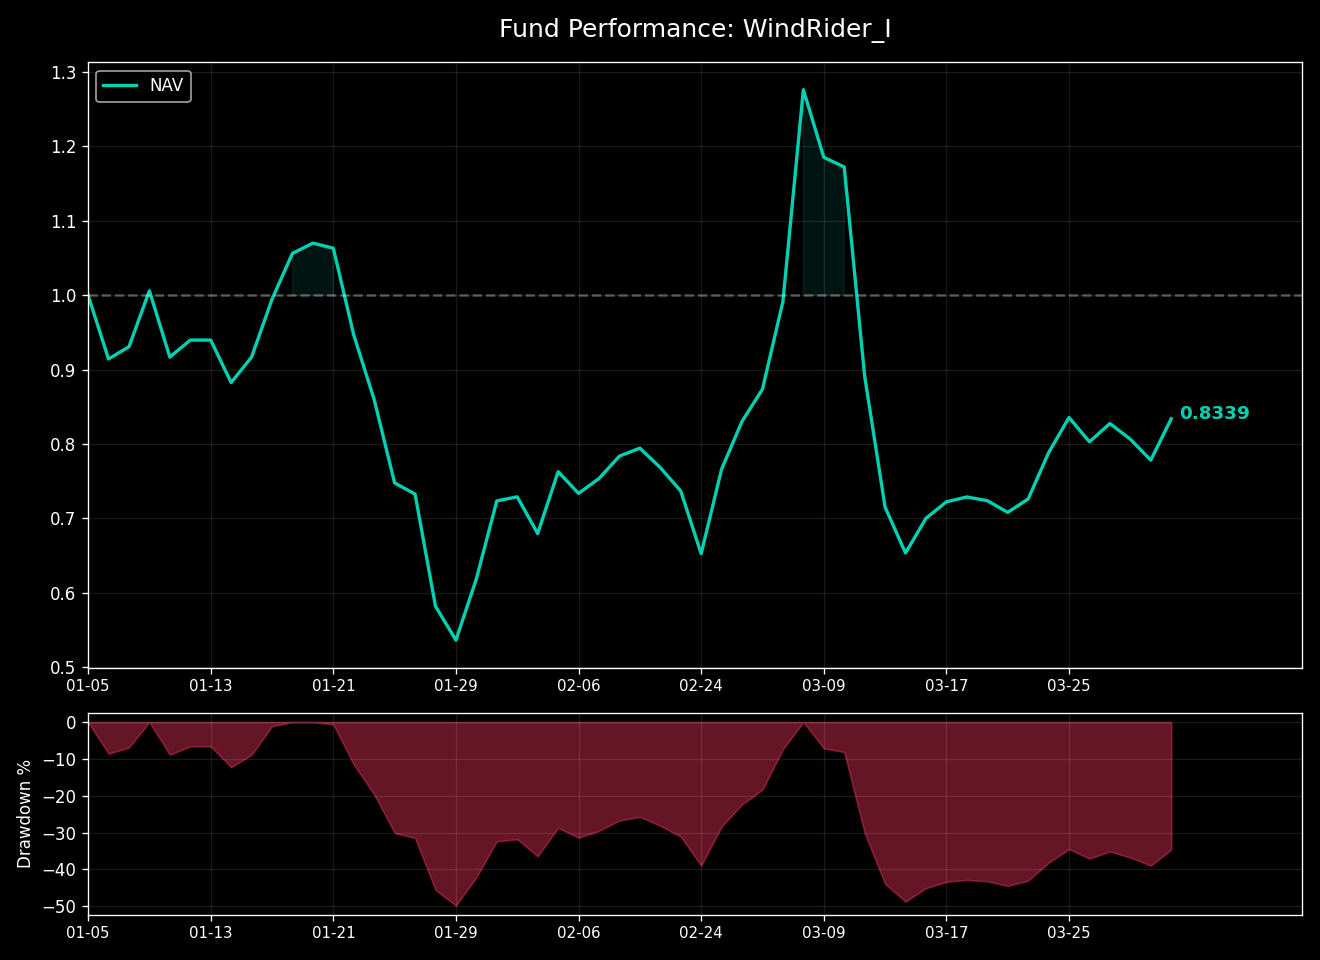
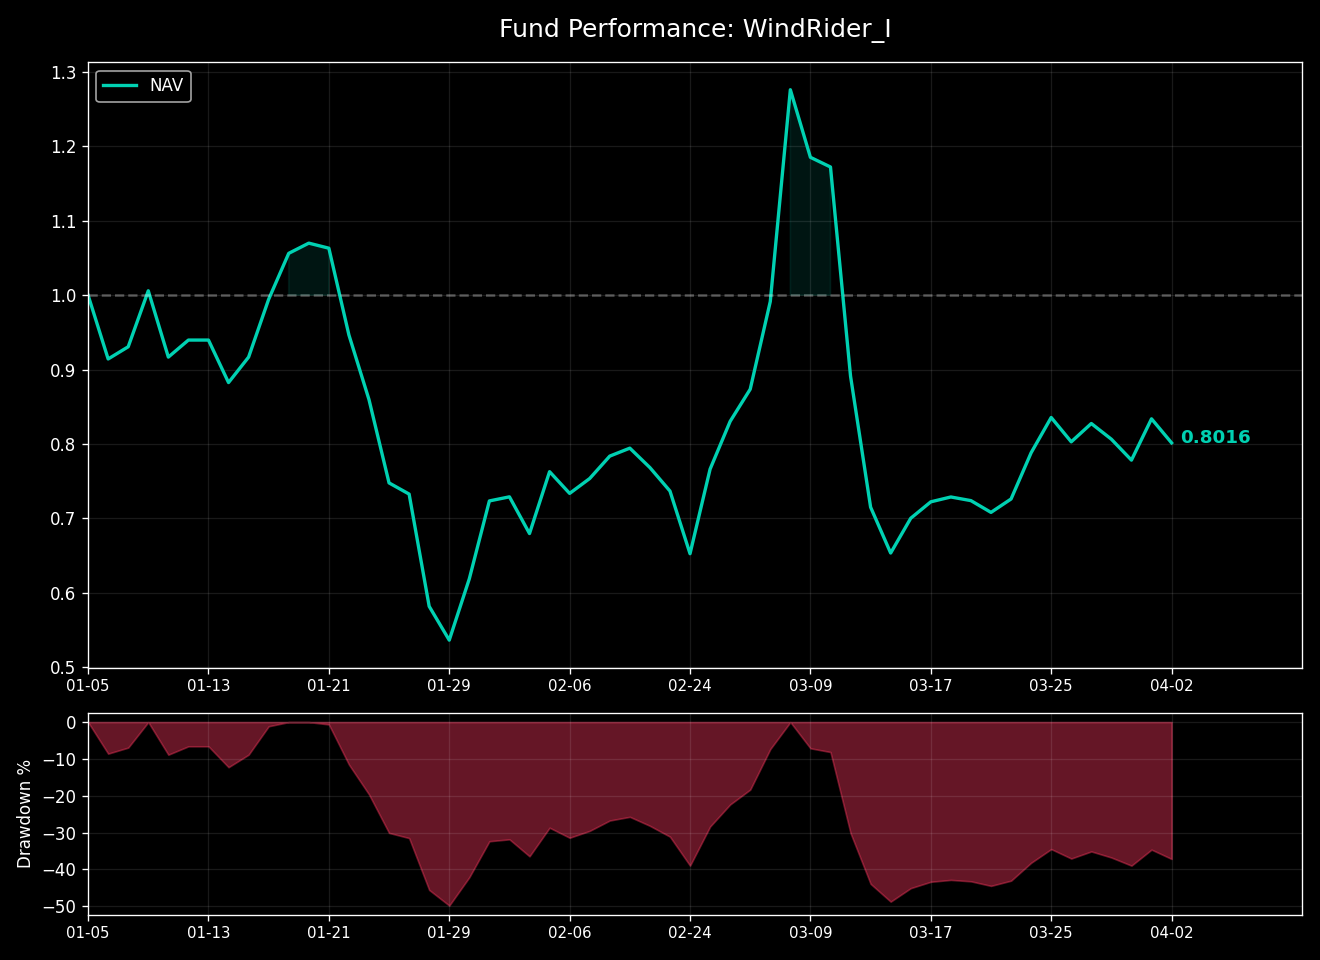
Updated Hugo site content

diff --git a/content/investment/windrider-1.md b/content/investment/windrider-1.md
@@ -1,8 +1,8 @@
 +++
 title = "风舵1号 (WindRider I)  /// 指数"
 summary = "商品期货分形摆动策略，实盘最新净值与核心风险指标。"
-date = 2026-04-01T15:15:03+08:00
-lastmod = 2026-04-01T15:15:03+08:00
+date = 2026-04-02T15:15:03+08:00
+lastmod = 2026-04-02T15:15:03+08:00
 draft = false
 description = "商品期货分形摆动策略实盘"
 +++
@@ -15,24 +15,24 @@ description = "商品期货分形摆动策略实盘"
 
 ### 风舵1号 (WindRider I) &nbsp;&nbsp;<span style="color: #E63946; font-weight: bold;">/</span><span style="color: #F1A73E; font-weight: bold;">/</span><span style="color: #000091; font-weight: bold;">/</span>&nbsp;&nbsp; 指数
 商品期货分形摆动策略实盘<br>
-净值简报 <small>(截至: 2026-04-01)</small>
+净值简报 <small>(截至: 2026-04-02)</small>
 
 |  |  |
 | :--- | :--- |
 | **指数代码：** | WDR1.CTA |
 | **起步日期：** | 2026-01-05 |
-| **最新净值：** | 0.8339 |
-| **今日涨跌：** | +7.13% |
+| **最新净值：** | 0.8016 |
+| **今日涨跌：** | -3.87% |
 
 ===========================
 
 | 核心指标 | |
 | :--- | :--- |
-| **累计涨跌：** | -16.61% |
-| **年化收益：** | -53.74% |
+| **累计涨跌：** | -19.84% |
+| **年化收益：** | -60.46% |
 | **最大回撤：** | -49.85% |
-| **卡玛比率：** | -1.08 |
-| **策略状态：** | 已运行 87 天 |
+| **卡玛比率：** | -1.21 |
+| **策略状态：** | 已运行 88 天 |
 
 ### 净值曲线
 ![风舵1号净值曲线](/images/investment/windrider_nav.png)
